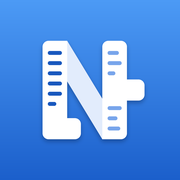
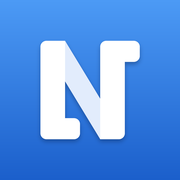
폰 리더 웹앱 갱신: 단순화한 앱 아이콘 (main 9d8539d에서 narani phone site)

Changed region(s): [[0.2222, 0.2222, 0.8056, 0.7778], [0.4167, 0.3056, 0.5, 0.4444], [0.4167, 0.75, 0.4444, 0.7778]]

diff --git a/sw.js b/sw.js
@@ -1,6 +1,6 @@
 
 // 앱 껍데기 캐시 — 먼저 캐시로 띄우고 뒤에서 새로 받아 둔다. 데이터(data/·__data/)는 앱이 직접 캐시한다.
-var V = '1100f51afd25', SHELL = 'narani-shell-' + V;
+var V = '2d74e7496643', SHELL = 'narani-shell-' + V;
 var FILES = ['./', 'index.html', 'app.js', 'manifest.webmanifest', 'icon-180.png', 'icon-192.png', 'icon-512.png'];
 self.addEventListener('install', function(e){
   e.waitUntil(caches.open(SHELL).then(function(c){ return c.addAll(FILES); }).then(function(){ return self.skipWaiting(); }));
